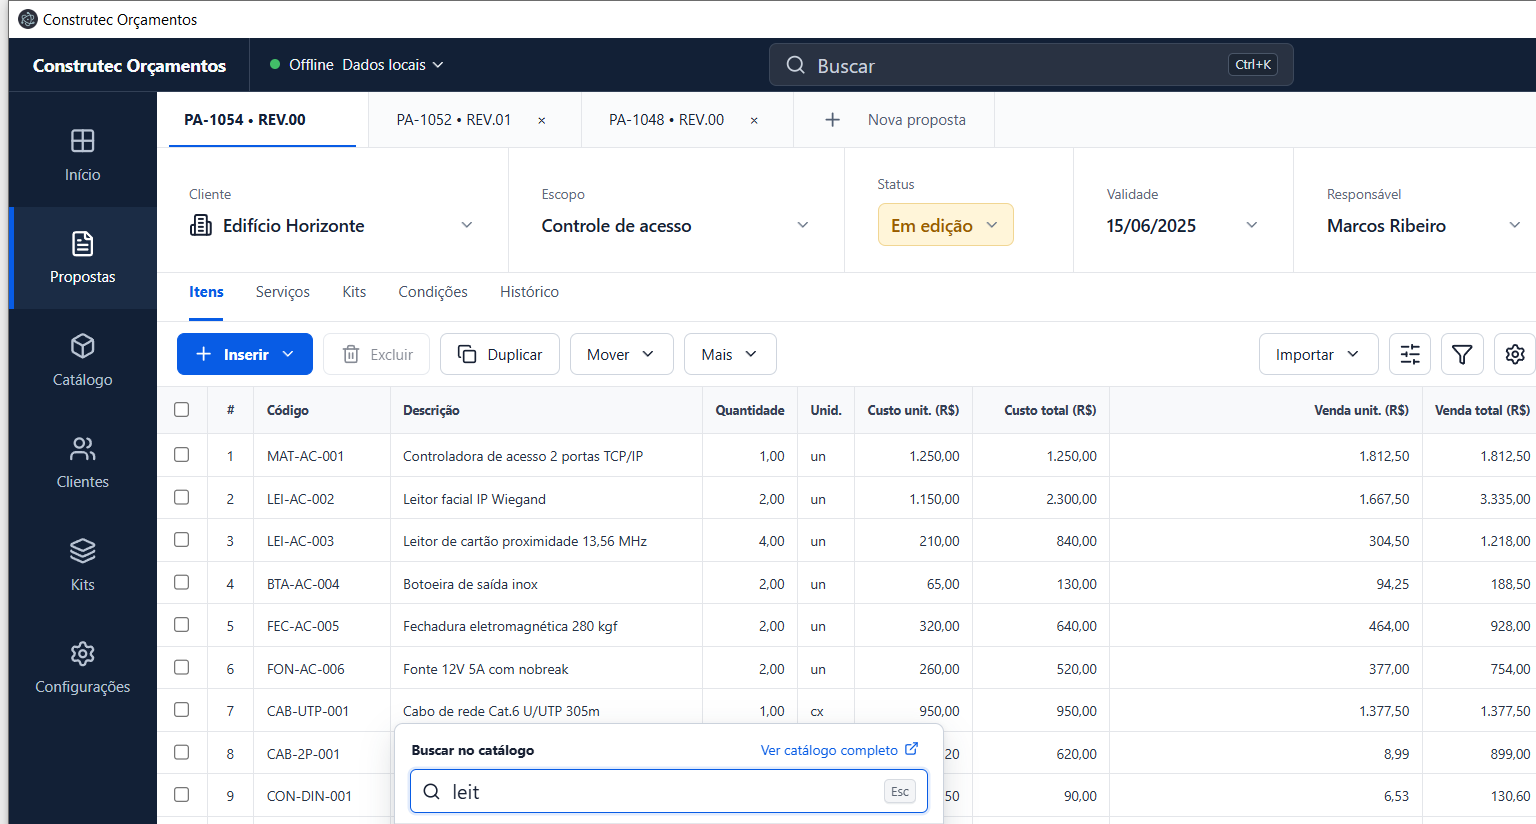
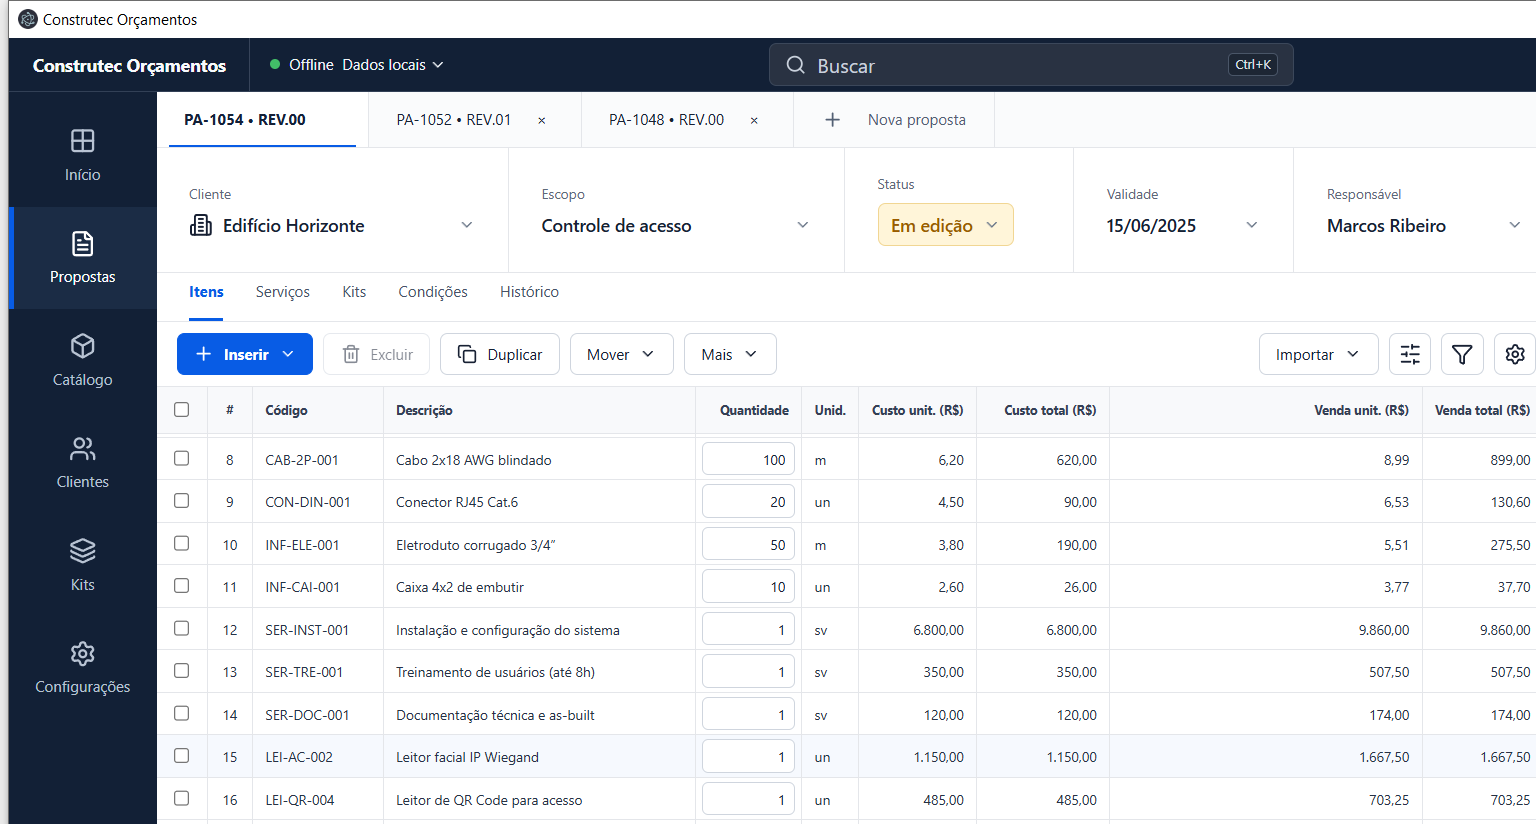
feat: enable proposal quantity and BDI editing

diff --git a/src/renderer/App.tsx b/src/renderer/App.tsx
@@ -39,7 +39,6 @@ const navItems = [
 const openProposals = ['PA-1052 • REV.01', 'PA-1048 • REV.00'];
 
 const money = new Intl.NumberFormat('pt-BR', { minimumFractionDigits: 2, maximumFractionDigits: 2 });
-const quantity = new Intl.NumberFormat('pt-BR', { minimumFractionDigits: 2, maximumFractionDigits: 4 });
 const date = new Intl.DateTimeFormat('pt-BR', { timeZone: 'UTC' });
 
 const statusLabels: Record<ProposalDetail['status'], string> = {
@@ -62,6 +61,8 @@ export function App() {
   const [catalogLoading, setCatalogLoading] = useState(false);
   const [mutationPending, setMutationPending] = useState(false);
   const [error, setError] = useState('');
+  const [quantityDrafts, setQuantityDrafts] = useState<Record<string, string>>({});
+  const [bdiDraft, setBdiDraft] = useState<string | null>(null);
   const catalogInputRef = useRef<HTMLInputElement>(null);
 
   const showNotice = (message: string) => {
@@ -141,6 +142,55 @@ export function App() {
       setMutationPending(false);
     }
   }, [mutationPending, proposal, selectedItemIds]);
+
+  const parseDecimal = (value: string) => Number(value.trim().replace(',', '.'));
+
+  const updateQuantity = useCallback(async (itemId: string, value: string) => {
+    if (!proposal || mutationPending) return;
+    const nextQuantity = parseDecimal(value);
+    const currentItem = proposal.items.find((item) => item.id === itemId);
+    if (!Number.isFinite(nextQuantity) || nextQuantity <= 0 || nextQuantity > 1_000_000) {
+      setQuantityDrafts((current) => ({ ...current, [itemId]: String(currentItem?.quantity ?? 1).replace('.', ',') }));
+      showNotice('Informe uma quantidade maior que zero.');
+      return;
+    }
+    if (currentItem?.quantity === nextQuantity) return;
+    setMutationPending(true);
+    setError('');
+    try {
+      const result = await proposalApi.updateQuantity(proposal.id, itemId, nextQuantity);
+      setProposal(result.proposal);
+      setQuantityDrafts((current) => ({ ...current, [itemId]: String(nextQuantity).replace('.', ',') }));
+      showNotice('Quantidade atualizada e totais recalculados.');
+    } catch (mutationError) {
+      setError(mutationError instanceof Error ? mutationError.message : 'Não foi possível alterar a quantidade.');
+    } finally {
+      setMutationPending(false);
+    }
+  }, [mutationPending, proposal]);
+
+  const updateBdi = useCallback(async () => {
+    if (!proposal || mutationPending) return;
+    const nextBdi = parseDecimal(bdiDraft ?? String(proposal.bdiMultiplier));
+    if (!Number.isFinite(nextBdi) || nextBdi <= 0 || nextBdi > 100) {
+      setBdiDraft(null);
+      showNotice('Informe um multiplicador BDI maior que zero.');
+      return;
+    }
+    if (proposal.bdiMultiplier === nextBdi) return;
+    setMutationPending(true);
+    setError('');
+    try {
+      const result = await proposalApi.updateBdi(proposal.id, nextBdi);
+      setProposal(result.proposal);
+      setBdiDraft(null);
+      showNotice('BDI atualizado e preços de venda recalculados.');
+    } catch (mutationError) {
+      setError(mutationError instanceof Error ? mutationError.message : 'Não foi possível alterar o BDI.');
+    } finally {
+      setMutationPending(false);
+    }
+  }, [bdiDraft, mutationPending, proposal]);
 
   useEffect(() => {
     setSelectedCatalogIndex(0);
@@ -277,7 +327,9 @@ export function App() {
                 {proposal?.items.map((item, index) => (
                   <tr key={item.id}>
                     <td><input type="checkbox" aria-label={`Selecionar ${item.description}`} checked={selectedItemIds.includes(item.id)} onChange={() => setSelectedItemIds((current) => current.includes(item.id) ? current.filter((id) => id !== item.id) : [...current, item.id])} /></td>
-                    <td>{index + 1}</td><td className="code">{item.code}</td><td title={item.description}>{item.description}</td><td className="number">{quantity.format(item.quantity)}</td><td>{item.unit}</td><td className="number">{money.format(item.unitCost)}</td><td className="number">{money.format(item.totalCost)}</td><td className="number">{money.format(item.unitSale)}</td><td className="number">{money.format(item.totalSale)}</td>
+                    <td>{index + 1}</td><td className="code">{item.code}</td><td title={item.description}>{item.description}</td>
+                    <td className="number editable-cell"><input className="quantity-input" type="text" inputMode="decimal" aria-label={`Quantidade de ${item.description}`} value={quantityDrafts[item.id] ?? String(item.quantity).replace('.', ',')} disabled={mutationPending} onChange={(event) => setQuantityDrafts((current) => ({ ...current, [item.id]: event.target.value }))} onBlur={(event) => void updateQuantity(item.id, event.currentTarget.value)} onKeyDown={(event) => { if (event.key === 'Enter') event.currentTarget.blur(); if (event.key === 'Escape') { setQuantityDrafts((current) => ({ ...current, [item.id]: String(item.quantity).replace('.', ',') })); event.currentTarget.blur(); } }} /></td>
+                    <td>{item.unit}</td><td className="number">{money.format(item.unitCost)}</td><td className="number">{money.format(item.totalCost)}</td><td className="number">{money.format(item.unitSale)}</td><td className="number">{money.format(item.totalSale)}</td>
                   </tr>
                 ))}
                 {!loading && proposal?.items.length === 0 && <tr className="empty-row"><td colSpan={10}>Nenhum item nesta proposta. Use “Inserir” para pesquisar no catálogo local.</td></tr>}
@@ -318,11 +370,11 @@ export function App() {
 
           <div className="panel-section">
             <h2>Parâmetros internos</h2>
-            <label>BDI aplicado <span className="locked-input">{money.format(proposal?.bdiMultiplier ?? 0)} <LockKeyhole size={15} /></span></label>
+            <label>Multiplicador BDI <span className="editable-parameter"><input type="text" inputMode="decimal" aria-label="Multiplicador BDI" value={bdiDraft ?? String(proposal?.bdiMultiplier ?? 0).replace('.', ',')} disabled={!proposal || mutationPending} onFocus={() => { if (bdiDraft === null && proposal) setBdiDraft(String(proposal.bdiMultiplier).replace('.', ',')); }} onChange={(event) => setBdiDraft(event.target.value)} onBlur={() => void updateBdi()} onKeyDown={(event) => { if (event.key === 'Enter') event.currentTarget.blur(); if (event.key === 'Escape') { setBdiDraft(null); event.currentTarget.blur(); } }} /><span aria-hidden="true">×</span></span></label>
             <label>Encargos <span className="locked-input">87,25% <ChevronDown size={14} /></span></label>
           </div>
 
-          <div className="frozen-state"><LockKeyhole size={17} /><span>Preço congelado nesta revisão</span></div>
+          <div className="frozen-state"><LockKeyhole size={17} /><span>Custos-base preservados nesta revisão</span></div>
 
           <div className="panel-section actions">
             <h2>Ações</h2>

diff --git a/src/server/services/proposals.ts b/src/server/services/proposals.ts
@@ -175,3 +175,69 @@ export const removeProposalItems = async (database: LocalDatabase, proposalId: s
     `, [randomUUID(), proposalId, JSON.stringify({ itemIds })]);
   });
 };
+
+export const updateProposalItemQuantity = async (
+  database: LocalDatabase,
+  proposalId: string,
+  itemId: string,
+  quantity: number,
+) => {
+  await database.transaction(async (transaction) => {
+    const proposalResult = await transaction.query<{ status: string }>(
+      'SELECT status FROM proposals WHERE id = $1 FOR UPDATE',
+      [proposalId],
+    );
+    const proposal = proposalResult.rows[0];
+    if (!proposal) throw new Error('PROPOSAL_NOT_FOUND');
+    if (proposal.status !== 'draft' && proposal.status !== 'review') throw new Error('PROPOSAL_LOCKED');
+
+    const itemResult = await transaction.query<{ quantity: string }>(
+      'SELECT quantity::text FROM proposal_items WHERE proposal_id = $1 AND id = $2 FOR UPDATE',
+      [proposalId, itemId],
+    );
+    const item = itemResult.rows[0];
+    if (!item) throw new Error('ITEM_NOT_FOUND');
+
+    await transaction.query(
+      'UPDATE proposal_items SET quantity = $3 WHERE proposal_id = $1 AND id = $2',
+      [proposalId, itemId, quantity],
+    );
+
+    await transaction.query('UPDATE proposals SET updated_at = now() WHERE id = $1', [proposalId]);
+    await transaction.query(`
+      INSERT INTO audit_events (id, entity_type, entity_id, action, before_data, after_data)
+      VALUES ($1, 'proposal_item', $2, 'quantity_updated', $3::jsonb, $4::jsonb)
+    `, [randomUUID(), itemId, JSON.stringify({ quantity: Number(item.quantity) }), JSON.stringify({ quantity })]);
+  });
+};
+
+export const updateProposalBdi = async (
+  database: LocalDatabase,
+  proposalId: string,
+  bdiMultiplier: number,
+) => {
+  await database.transaction(async (transaction) => {
+    const proposalResult = await transaction.query<{ status: string; bdi_multiplier: string }>(
+      'SELECT status, bdi_multiplier::text FROM proposals WHERE id = $1 FOR UPDATE',
+      [proposalId],
+    );
+    const proposal = proposalResult.rows[0];
+    if (!proposal) throw new Error('PROPOSAL_NOT_FOUND');
+    if (proposal.status !== 'draft' && proposal.status !== 'review') throw new Error('PROPOSAL_LOCKED');
+
+    await transaction.query(
+      'UPDATE proposals SET bdi_multiplier = $2, updated_at = now() WHERE id = $1',
+      [proposalId, bdiMultiplier],
+    );
+    await transaction.query(
+      `UPDATE proposal_items
+       SET sale_unit_price = round(snapshot_unit_cost * $2, 2)
+       WHERE proposal_id = $1`,
+      [proposalId, bdiMultiplier],
+    );
+    await transaction.query(`
+      INSERT INTO audit_events (id, entity_type, entity_id, action, before_data, after_data)
+      VALUES ($1, 'proposal', $2, 'bdi_updated', $3::jsonb, $4::jsonb)
+    `, [randomUUID(), proposalId, JSON.stringify({ bdiMultiplier: Number(proposal.bdi_multiplier) }), JSON.stringify({ bdiMultiplier })]);
+  });
+};

diff --git a/src/index.css b/src/index.css
@@ -159,6 +159,10 @@ td:nth-child(2), th:nth-child(2) { width: 38px; text-align: center; }
 td:nth-child(3), th:nth-child(3) { width: 112px; }
 td:nth-child(4), th:nth-child(4) { min-width: 250px; max-width: 330px; overflow: hidden; text-overflow: ellipsis; }
 td.number, th:nth-child(n+5) { text-align: right; }
+.editable-cell { padding: 3px 5px; }
+.quantity-input { width: 74px; height: 27px; padding: 0 7px; color: var(--ink); text-align: right; background: #fff; border: 1px solid var(--line-strong); border-radius: 5px; font-variant-numeric: tabular-nums; }
+.quantity-input:hover { border-color: #aeb8c6; }
+.quantity-input:focus { border-color: var(--blue); box-shadow: 0 0 0 2px rgba(8, 92, 229, .12); }
 .code { font-variant-numeric: tabular-nums; }
 input[type="checkbox"] { width: 13px; height: 13px; accent-color: var(--blue); }
 tfoot td { position: sticky; bottom: 0; height: 45px; font-weight: 700; background: #fbfcfd; border-top: 1px solid var(--line-strong); border-bottom: 0; }
@@ -195,6 +199,9 @@ tfoot td { position: sticky; bottom: 0; height: 45px; font-weight: 700; backgrou
 .panel-section label { display: flex; align-items: center; justify-content: space-between; min-height: 44px; font-size: 11px; }
 .locked-input { display: flex; align-items: center; justify-content: space-between; width: 136px; height: 32px; padding: 0 10px; background: #fff; border: 1px solid var(--line-strong); border-radius: 5px; }
 .locked-input svg { color: #687486; }
+.editable-parameter { display: flex; align-items: center; width: 136px; height: 32px; padding: 0 10px; color: var(--muted); background: #fff; border: 1px solid var(--line-strong); border-radius: 5px; }
+.editable-parameter:focus-within { border-color: var(--blue); box-shadow: 0 0 0 2px rgba(8, 92, 229, .12); }
+.editable-parameter input { min-width: 0; width: 100%; color: var(--ink); text-align: right; background: transparent; border: 0; outline: 0; font-variant-numeric: tabular-nums; }
 .frozen-state { display: flex; align-items: center; justify-content: center; gap: 9px; min-height: 42px; margin-top: 20px; padding: 8px 10px; color: #176d39; background: var(--green-soft); border: 1px solid #5eaf79; border-radius: 6px; font-size: 11px; font-weight: 700; }
 .actions { margin-top: 20px; }
 .actions button { justify-content: flex-start; width: 100%; height: 44px; margin-top: 10px; padding: 0 14px; }

diff --git a/src/server/routes/proposals.ts b/src/server/routes/proposals.ts
@@ -1,7 +1,13 @@
 import { Router } from 'express';
 import { z } from 'zod';
 import type { LocalDatabase } from '../services/database';
-import { addProductToProposal, getCurrentProposal, removeProposalItems } from '../services/proposals';
+import {
+  addProductToProposal,
+  getCurrentProposal,
+  removeProposalItems,
+  updateProposalBdi,
+  updateProposalItemQuantity,
+} from '../services/proposals';
 
 const idSchema = z.string().uuid();
 const addItemSchema = z.object({
@@ -9,6 +15,8 @@ const addItemSchema = z.object({
   quantity: z.number().positive().max(1_000_000).default(1),
 });
 const removeItemsSchema = z.object({ itemIds: z.array(z.string().uuid()).min(1).max(500) });
+const updateQuantitySchema = z.object({ quantity: z.number().positive().max(1_000_000) });
+const updateBdiSchema = z.object({ bdiMultiplier: z.number().positive().max(100) });
 
 export const createProposalsRouter = (database: LocalDatabase) => {
   const router = Router();
@@ -42,6 +50,29 @@ export const createProposalsRouter = (database: LocalDatabase) => {
       const proposalId = idSchema.parse(request.params.proposalId);
       const input = removeItemsSchema.parse(request.body);
       await removeProposalItems(database, proposalId, input.itemIds);
+      response.json({ proposal: await getCurrentProposal(database) });
+    } catch (error) {
+      next(error);
+    }
+  });
+
+  router.patch('/:proposalId/items/:itemId', async (request, response, next) => {
+    try {
+      const proposalId = idSchema.parse(request.params.proposalId);
+      const itemId = idSchema.parse(request.params.itemId);
+      const input = updateQuantitySchema.parse(request.body);
+      await updateProposalItemQuantity(database, proposalId, itemId, input.quantity);
+      response.json({ proposal: await getCurrentProposal(database) });
+    } catch (error) {
+      next(error);
+    }
+  });
+
+  router.patch('/:proposalId/bdi', async (request, response, next) => {
+    try {
+      const proposalId = idSchema.parse(request.params.proposalId);
+      const input = updateBdiSchema.parse(request.body);
+      await updateProposalBdi(database, proposalId, input.bdiMultiplier);
       response.json({ proposal: await getCurrentProposal(database) });
     } catch (error) {
       next(error);

diff --git a/src/renderer/api.ts b/src/renderer/api.ts
@@ -41,4 +41,12 @@ export const proposalApi = {
     `/api/proposals/${proposalId}/items/remove`,
     { method: 'POST', body: JSON.stringify({ itemIds }) },
   ),
+  updateQuantity: (proposalId: string, itemId: string, quantity: number) => request<{ proposal: ProposalDetail }>(
+    `/api/proposals/${proposalId}/items/${itemId}`,
+    { method: 'PATCH', body: JSON.stringify({ quantity }) },
+  ),
+  updateBdi: (proposalId: string, bdiMultiplier: number) => request<{ proposal: ProposalDetail }>(
+    `/api/proposals/${proposalId}/bdi`,
+    { method: 'PATCH', body: JSON.stringify({ bdiMultiplier }) },
+  ),
 };

diff --git a/src/server/createApp.ts b/src/server/createApp.ts
@@ -20,7 +20,7 @@ export const createApp = (database: LocalDatabase, apiToken: string) => {
       response.setHeader('Vary', 'Origin');
     }
     response.setHeader('Access-Control-Allow-Headers', 'Authorization, Content-Type');
-    response.setHeader('Access-Control-Allow-Methods', 'GET, POST, OPTIONS');
+    response.setHeader('Access-Control-Allow-Methods', 'GET, POST, PATCH, OPTIONS');
     if (request.method === 'OPTIONS') {
       response.sendStatus(204);
       return;
